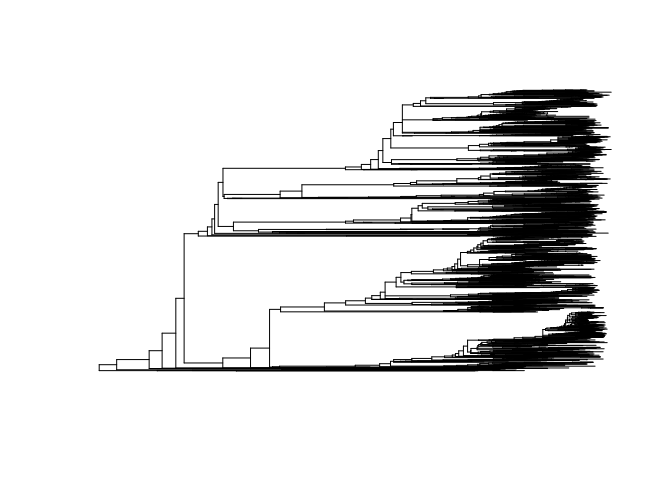
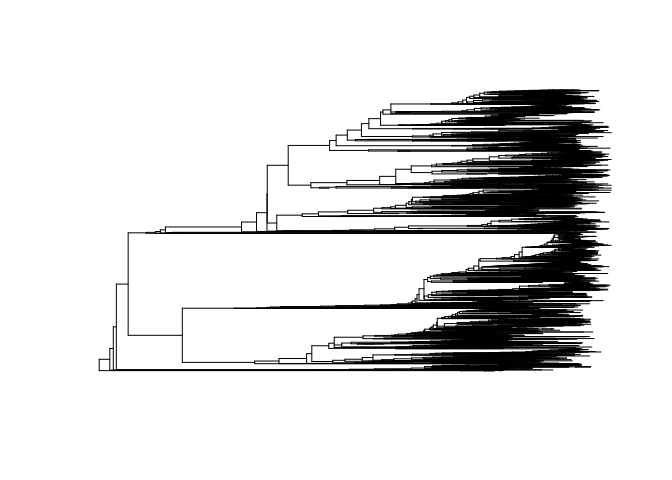
updated with NextStrain build labelled 08-08

Changed region(s): [[0.1562, 0.1875, 0.9062, 0.7812], [0.1875, 0.5625, 0.2188, 0.5938]]

diff --git a/B1-6172_results.md b/B1-6172_results.md
@@ -1,6 +1,6 @@
 Results - B.1.617.2, “Delta variant”
 ================
-02/08/2021
+16/08/2021
 
 Phylogeographic mapping
 
@@ -30,9 +30,9 @@ in Table 1.
 
 |                    |     2.5% |      50% |    97.5% |
 |:-------------------|---------:|---------:|---------:|
-| Import             |  91.4750 |  95.0000 |  97.0000 |
-| Local transmission | 415.0000 | 417.0000 | 420.5250 |
-| Import / Total     |   0.1787 |   0.1855 |   0.1895 |
+| Import             | 203.0000 | 207.0000 | 211.0000 |
+| Local transmission | 696.0000 | 700.0000 | 704.0000 |
+| Import / Total     |   0.2238 |   0.2282 |   0.2326 |
 
 ![](B1-6172_results_files/figure-gfm/unnamed-chunk-5-1.png)<!-- -->
 
